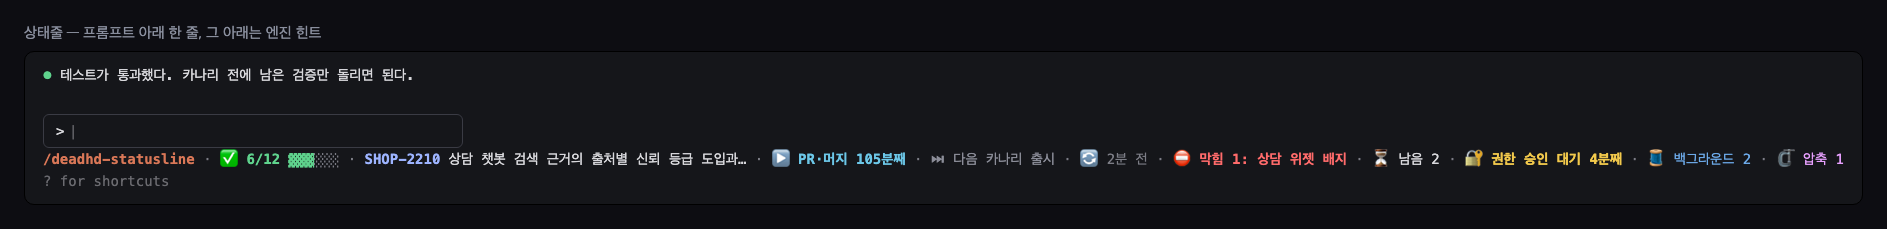
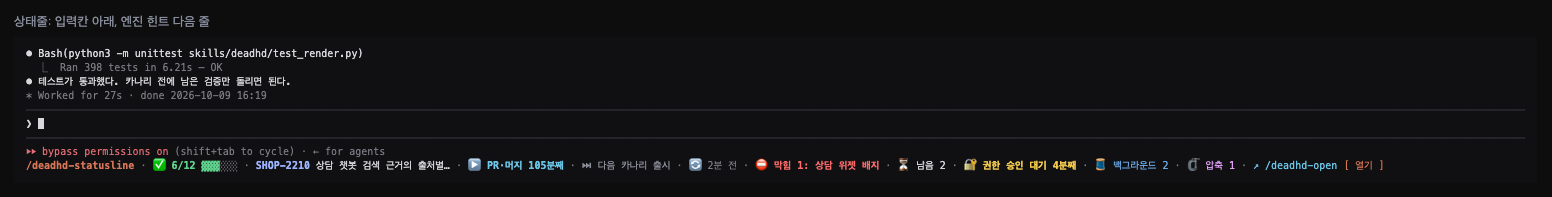
docs: 밴드·상태줄 예시 그림의 실제 화면 재현

Changed region(s): [[0.0, 0.6091, 0.9897, 0.8832], [0.0, 0.2437, 0.2474, 0.5178], [0.0, 0.0609, 0.1856, 0.1827]]

diff --git a/docs/capture_mods.py b/docs/capture_mods.py
@@ -19,9 +19,8 @@ CASE, THEME, SESSION = 'lanes-blocked', 'dark', 'demo-mods'
 NOW = CASES[CASE]
 WAIT_MINUTES, STALE_MINUTES = 4, 2
 
-FONT, LINE = 14, 22
-PAD, GAP = 24, 20
-CELL = FONT * 0.6
+FONT, LINE = 10, 14
+PAD, GAP = 14, 16
 
 
 # ── register.tsx 의 줄 만들기 ────────────────────────────────────────────────
@@ -31,6 +30,7 @@ BAR_CELLS = 6
 SEP = ' · '
 BAND_CMD = '/deadhd-band'
 STATUS_CMD = '/deadhd-statusline'
+OPEN_CMD = '/deadhd-open'
 
 WORDS = {
     'ko': {
@@ -235,6 +235,7 @@ def status_fields(state, now):
     if state['compactions'] > 0:
         fields.append(('compacted',
                        [('🗜 %s %d' % (words['compacted'], state['compactions']), 'remember', False)]))
+    fields.append(('openCmd', [('↗ %s' % OPEN_CMD, 'suggestion', False)]))
     return fields
 
 
@@ -293,6 +294,8 @@ def fit(fields, max_cols):
         shrink('current')
     if line_width(fields) > max_cols:
         drop('current')
+    if line_width(fields) > max_cols:
+        drop('openCmd')
     return [f for f in fields if f[1]]
 
 
@@ -429,7 +432,24 @@ TONES = {
     'ide': '#6ca9e8', 'remember': '#e8a0ff', 'plain': '#d8d8dc',
 }
 
+# 엔진이 그리는 부분(대화 영역·입력칸·힌트)의 색. deadhd 의 테마 키와는 무관하다.
+TEXT, DIM, EDGE, PERMISSION = '#d8d8dc', '#7a7b82', '#3a3b44', '#e06c75'
+
 SIZE_MARK = 'deadhd-mods-size:'
+
+# 가로선 자리. 터미널 폭은 그 조각의 줄들로 정해지므로 그릴 때 채운다.
+RULE = object()
+
+HINT_STRONG = '⏵⏵ bypass permissions on'
+HINT_REST = ' (shift+tab to cycle) · ← for agents'
+
+
+class Line:
+    """터미널 한 줄: 그린 HTML 과, 터미널 폭을 정할 평문."""
+
+    def __init__(self, html, text):
+        self.html = html
+        self.text = text
 
 
 def esc(value):
@@ -447,27 +467,39 @@ def spans(parts, tail=''):
 
 
 def row(parts, tail=''):
-    return '<div class="row">%s</div>' % spans(parts, tail)
+    return Line('<div class="row">%s</div>' % spans(parts, tail),
+                ''.join(part[0] for part in parts) + tail)
 
 
-def action_row(parts, buttons):
-    return '<div class="linerow"><span class="row">%s</span>%s</div>' % (spans(parts, ' '), buttons)
+def plain(content, cls=''):
+    """색 없이 그리는 한 줄: 대화 영역과 엔진 힌트."""
+    return Line('<div class="row%s">%s</div>' % ((' ' + cls) if cls else '', esc(content)), content)
 
 
-def plain(where, content):
-    return '<div class="row%s">%s</div>' % ((' ' + where) if where else '', esc(content))
-
-
-def button(label, primary=False):
-    return '<span class="btn%s">[ %s ]</span>' % (' primary' if primary else '', esc(label))
-
-
-def terminal(rows):
-    return '<div class="term">%s</div>' % ''.join(rows)
+def control_row(parts, controls):
+    """밴드·상태줄 한 줄: 조각들 끝에 터미널 버튼 `[ label ]` 을 붙인다."""
+    drawn = ''.join('<span class="btn%s">[ %s ]</span>' % (' primary' if primary else '', esc(label))
+                    for label, primary in controls)
+    text = ''.join(part[0] for part in parts) + ' ' + ' '.join('[ %s ]' % label
+                                                              for label, _ in controls)
+    return Line('<div class="row">%s%s</div>' % (spans(parts, ' '), drawn), text)
 
 
 def prompt_row():
-    return '<div class="prompt">&gt; <span class="cursor">▏</span></div>'
+    """입력칸: `❯ ` 와 흰 블록 커서 한 줄."""
+    return Line('<div class="row">❯ <span class="cursor"> </span></div>', '❯  ')
+
+
+def hint_row():
+    return Line('<div class="row"><span style="color:%s">%s</span><span class="dim">%s</span></div>'
+                % (PERMISSION, esc(HINT_STRONG), esc(HINT_REST)), HINT_STRONG + HINT_REST)
+
+
+def terminal(rows):
+    cols = max([cell_width(one.text) for one in rows if one is not RULE] or [0])
+    edge = '<div class="row rule">%s</div>' % ('─' * cols)
+    return '<div class="term">%s</div>' % ''.join(edge if one is RULE else one.html
+                                                  for one in rows)
 
 
 def page(lang, blocks):
@@ -477,28 +509,26 @@ def page(lang, blocks):
 <html lang="%s"><head><meta charset="utf-8"><style>
 * { box-sizing: border-box; }
 html, body { margin: 0; }
-body { background: #0d0d12; }
+body { background: #0d0d0d; }
 .page { display: flex; flex-direction: column; gap: %dpx; padding: %dpx; width: max-content; }
-.cap { color: #8a8f9e; font: 15px -apple-system, "Apple SD Gothic Neo", sans-serif; }
-.term { background: #15161a; border: 1px solid #000; border-radius: 10px; padding: 12px 18px;
-  width: max-content; font-family: ui-monospace, "SF Mono", Menlo, Consolas, monospace;
+.block { display: flex; flex-direction: column; gap: 7px; }
+.cap { color: #8a8f9e; font: 13px -apple-system, "Apple SD Gothic Neo", sans-serif; }
+.term { background: #101012; padding: 10px 12px; width: max-content;
+  font-family: ui-monospace, "SF Mono", Menlo, Consolas, monospace;
   font-size: %dpx; line-height: %dpx; }
-.block { display: flex; flex-direction: column; gap: 8px; }
-.row { color: #d8d8dc; white-space: pre; }
-.linerow { display: flex; align-items: baseline; }
-.gray { color: #6b6b70; }
-.prompt { border: 1px solid #3a3b44; border-radius: 6px; padding: 5px 12px; margin-top: 6px;
-  color: #d8d8dc; min-width: 420px; width: max-content; }
-.cursor { color: #6b6b70; }
-.btn { background: #2a2c33; color: #d8d8dc; border-radius: 3px; padding: 1px 5px; margin-left: 5px; }
-.btn.primary { background: #d97757; color: #15161a; }
+.row { color: %s; white-space: pre; }
+.dim { color: %s; }
+.rule { color: %s; }
+.cursor { background: %s; }
+.btn { color: %s; }
+.btn.primary { color: %s; }
 </style>
 <script>window.addEventListener('load', function () {
   var r = document.querySelector('.page').getBoundingClientRect();
   console.log('%s' + Math.ceil(r.width) + 'x' + Math.ceil(r.height));
 });</script>
 </head><body><div class="page">%s</div></body></html>
-""" % (lang, GAP, PAD, FONT, LINE, SIZE_MARK, caps)
+""" % (lang, GAP, PAD, FONT, LINE, TEXT, DIM, EDGE, TEXT, TEXT, TONES['claude'], SIZE_MARK, caps)
 
 
 def content_size(html):
@@ -583,11 +613,12 @@ CUT_EXPECT = '/deadhd-band · ▓▓▓░░░ 3/6 · 막힘 1 · 남음 2'
 LONG_LABEL = '아주 긴 단계 이름이 여기에 들어 있다'
 LONG_ROW = ('/deadhd-statusline · ✅ 3/6 ▓▓▓░░░ · CAS-1161 CAS-1161 콘솔 dev 회귀 3회차 · '
             '▶ 실제 화면 확인 4분째 · ⏭ 다음 정리 · ⏱ 예상 16:20 · 🔄 2분 전 · ⛔ 막힘 1: 배포 검증 · '
-            '⏳ 남음 2 · 🧵 백그라운드 2 · 🗜 압축 1')
+            '⏳ 남음 2 · 🧵 백그라운드 2 · 🗜 압축 1 · ↗ /deadhd-open')
 # LONG_ROW 는 테스트에서 두 줄로 쪼개 붙이므로 조각으로 확인한다.
 TEST_FRAGMENTS = (BAND_EXPECT, ALERT_EXPECT,
                   '✅ 3/6 ▓▓▓░░░ · CAS-1161 CAS-1161 콘솔 dev 회귀 3회차 · ',
-                  '⏳ 남음 2 · 🧵 백그라운드 2 · 🗜 압축 1')
+                  '⏳ 남음 2 · 🧵 백그라운드 2 · 🗜 압축 1',
+                  '↗ /deadhd-open')
 
 
 def check_lines():
@@ -633,19 +664,25 @@ def main(argv):
     demos_dir = os.path.join(HERE, 'demos', 'en') if lang == 'en' else os.path.join(HERE, 'demos')
     suffix = '.en.png' if lang == 'en' else '.png'
     talk = {
-        'ko': ('⏺ Bash(python3 -m unittest skills/deadhd/test_render.py)',
-               '  ⎿  Ran 398 tests in 6.21s — OK',
-               '⏺ 테스트가 통과했다. 카나리 전에 남은 검증만 돌리면 된다.',
-               '밴드 — 프롬프트 위 한 줄. 막힌 단계나 대기가 있으면 둘째 줄이 붙는다.',
-               '접힌 밴드 — /deadhd-band 로 접었을 때',
-               '상태줄 — 프롬프트 아래 한 줄, 그 아래는 엔진 힌트'),
-        'en': ('⏺ Bash(python3 -m unittest skills/deadhd/test_render.py)',
-               '  ⎿  Ran 398 tests in 6.21s — OK',
-               '⏺ Tests pass. Only the last canary checks are left.',
-               'Band — one line above the prompt. A second row appears when a step is stuck '
-               'or the session waits.',
-               'Folded band — after /deadhd-band',
-               'Status line — one line under the prompt, with the engine hint below'),
+        'ko': {
+            'call': 'Bash(python3 -m unittest skills/deadhd/test_render.py)',
+            'result': '  ⎿  Ran 398 tests in 6.21s — OK',
+            'say': '테스트가 통과했다. 카나리 전에 남은 검증만 돌리면 된다.',
+            'worked': 'Worked for 27s · done 2026-10-09 16:19',
+            'bandCap': '밴드: 입력칸 위 한 줄. 막힌 단계나 대기가 있으면 둘째 줄이 붙는다.',
+            'foldedCap': '접힌 밴드: /deadhd-band 로 접었을 때',
+            'statusCap': '상태줄: 입력칸 아래, 엔진 힌트 다음 줄',
+        },
+        'en': {
+            'call': 'Bash(python3 -m unittest skills/deadhd/test_render.py)',
+            'result': '  ⎿  Ran 398 tests in 6.21s — OK',
+            'say': 'Tests pass. Only the last canary checks are left.',
+            'worked': 'Worked for 27s · done 2026-10-09 16:19',
+            'bandCap': 'Band: one row above the input. A second row appears when a step is '
+                       'stuck or the session waits.',
+            'foldedCap': 'Folded band: after /deadhd-band',
+            'statusCap': 'Status line: under the input, on the row after the engine hint',
+        },
     }[lang]
 
     work = tempfile.mkdtemp(prefix='deadhd-mods-')
@@ -686,31 +723,27 @@ def main(argv):
         status = status_line(state, now, STATUS_COLS)
         folded = folded_segments(state)
 
-        # 밴드는 프롬프트 위, 상태줄은 프롬프트 아래에 그려진다. 밴드 그림만 두 줄이다.
+        # 실제 화면 순서 그대로다: 대화 영역, 밴드(프롬프트 위), 입력칸, 엔진 힌트,
+        # 그리고 상태줄 모드에서만 그 아래에 deadhd 상태줄.
+        talk_lines = [
+            plain('⏺ ' + talk['call']),
+            plain(talk['result'], 'dim'),
+            plain('⏺ ' + talk['say']),
+            plain('* ' + talk['worked'], 'dim'),
+        ]
+        under_input = [RULE, prompt_row(), RULE, hint_row()]
         band_blocks = [
-            (talk[4], terminal([
-                action_row(folded, button(words['open'], True) + button(words['expand'])),
-                prompt_row(),
-                plain('gray', '? for shortcuts'),
-            ])),
-            (talk[3], terminal([
-                row([('⏺', 'success', False)] + [(talk[0][1:], 'plain', False)]),
-                plain('gray', talk[1]),
-                row([('⏺', 'success', False)] + [(talk[2][1:], 'plain', False)]),
-                plain('', ' '),
-                action_row(band, button(words['open'], True) + button(words['collapse'])),
+            (talk['foldedCap'], terminal(talk_lines + [
+                control_row(folded, [(words['open'], True), (words['expand'], False)]),
+            ] + under_input)),
+            (talk['bandCap'], terminal(talk_lines + [
+                control_row(band, [(words['open'], True), (words['collapse'], False)]),
                 row(alerts),
-                prompt_row(),
-                plain('gray', '? for shortcuts'),
-            ])),
+            ] + under_input)),
         ]
         status_blocks = [
-            (talk[5], terminal([
-                row([('⏺', 'success', False)] + [(talk[2][1:], 'plain', False)]),
-                plain('', ' '),
-                prompt_row(),
-                row(status),
-                plain('gray', '? for shortcuts'),
+            (talk['statusCap'], terminal(talk_lines + under_input + [
+                control_row(status, [(words['open'], True)]),
             ])),
         ]
 

diff --git a/README.md b/README.md
@@ -67,7 +67,7 @@ Orca 안에서 실행하면 기본 설정(`auto`)으로 터미널 옆 탭에 바
 
 `/deadhd setup` 에서 고르거나 `/deadhd --view <값>` 으로 이번 실행만 바꿉니다. 세션의 상태 파일에 기록된 값이 설정값보다 우선하므로, `--view band` 로 한 번 실행하면 그 세션은 밴드로 그립니다.
 
-밴드와 상태줄은 deadhd 플러그인의 mod(`skills/deadhd/hooks/register.tsx`)가 스킬이 쓴 같은 상태 파일을 읽어 그립니다. **Claude Code 전용**이고, Claude Code 가 아닌 환경(Codex `$deadhd` 등)에서는 묻지 않고 `html` 로 동작합니다. 밴드는 `/deadhd-band`, 상태줄은 `/deadhd-statusline` 으로 접고 펼치며, 현재 표시 방식과 맞지 않는 명령을 부르면 어떻게 바꾸는지 한 줄로 알려 줍니다. 페이지는 `/deadhd-open` 이나 밴드의 `열기` 버튼으로 엽니다.
+밴드와 상태줄은 deadhd 플러그인의 mod(`skills/deadhd/hooks/register.tsx`)가 스킬이 쓴 같은 상태 파일을 읽어 그립니다. **Claude Code 전용**이고, Claude Code 가 아닌 환경(Codex `$deadhd` 등)에서는 묻지 않고 `html` 로 동작합니다. 밴드는 `/deadhd-band`, 상태줄은 `/deadhd-statusline` 으로 접고 펼치며, 현재 표시 방식과 맞지 않는 명령을 부르면 어떻게 바꾸는지 한 줄로 알려 줍니다. 페이지는 `/deadhd-open` 이나 밴드·상태줄의 `열기` 버튼으로 엽니다.
 
 `band`·`statusline` 에서는 페이지 파일을 곧바로 쓰지 않습니다. 상태 요약과 허브는 매 갱신마다 다시 쓰고, 페이지는 처음 열 때(`/deadhd-open`, `열기` 버튼) 만들고 그 뒤로는 계속 씁니다. 허브에서 아직 페이지가 없는 세션은 링크 대신 표시 방식 이름(`밴드`/`상태줄`)을 보여 줍니다.
 
@@ -77,7 +77,7 @@ Orca 안에서 실행하면 기본 설정(`auto`)으로 터미널 옆 탭에 바
 
 ![상태줄 — 프롬프트 아래 한 줄, 그 아래 엔진 힌트](docs/statusline.png)
 
-상태줄은 같은 상태 파일을 더 많은 항목으로 담습니다. 티켓 키와 제목, 다음 단계, 마지막 갱신, 막힘, 남음, 대기, 백그라운드, 압축이 한 줄로 나오고, 240칸을 넘으면 제목부터 잘려 `…` 이 붙습니다.
+상태줄은 같은 상태 파일을 더 많은 항목으로 담습니다. 티켓 키와 제목, 다음 단계, 마지막 갱신, 막힘, 남음, 대기, 백그라운드, 압축이 한 줄로 나오고, 240칸을 넘으면 제목부터 잘려 `…` 이 붙습니다. 줄 끝에는 `↗ /deadhd-open` 안내와 `열기` 버튼이 붙어, 밴드와 같은 방법으로 페이지를 열 수 있습니다.
 
 ## 레인 보드
 

diff --git a/README.en.md b/README.en.md
@@ -67,7 +67,7 @@ The same progress can be shown three ways. This is a separate setting from the p
 
 Pick one in `/deadhd setup`, or change it for one run with `/deadhd --view <value>`. The value recorded in the session's state file beats the saved setting, so one run with `--view band` keeps that session on the band.
 
-The band and the status line are drawn by the deadhd plugin's mod (`skills/deadhd/hooks/register.tsx`), which reads the same state file the skill writes. They are **Claude Code only**; outside Claude Code (Codex `$deadhd`, say) the skill does not ask and works as `html`. `/deadhd-band` folds or opens the band, `/deadhd-statusline` the status line, and a command that does not match the current view answers in one line with how to switch. The page opens with `/deadhd-open` or the band's `Open` button.
+The band and the status line are drawn by the deadhd plugin's mod (`skills/deadhd/hooks/register.tsx`), which reads the same state file the skill writes. They are **Claude Code only**; outside Claude Code (Codex `$deadhd`, say) the skill does not ask and works as `html`. `/deadhd-band` folds or opens the band, `/deadhd-statusline` the status line, and a command that does not match the current view answers in one line with how to switch. The page opens with `/deadhd-open`, the band's `Open` button, or the status line's.
 
 Under `band` and `statusline` the page file is not written straight away. The state summary and the hub are rewritten on every update; the page is written when it is first opened (`/deadhd-open`, the `Open` button) and from then on with every update. A session with no page yet shows its display name (`band`/`status line`) in the hub instead of a link.
 
@@ -77,7 +77,7 @@ The band compresses the done count, the progress bar, the step in progress with 
 
 ![Status line — one line under the prompt, with the engine hint below](docs/statusline.en.png)
 
-The status line carries the same state file with more fields: the ticket key and title, the next step, the last update, blocked, left, waiting, background, and compactions. A row is drawn to 240 cells, so a longer title is cut with `…` first.
+The status line carries the same state file with more fields: the ticket key and title, the next step, the last update, blocked, left, waiting, background, and compactions. A row is drawn to 240 cells, so a longer title is cut with `…` first. The row ends with a `↗ /deadhd-open` note and an `Open` button, which open the page the same way the band's does.
 
 ## Lane board
 
